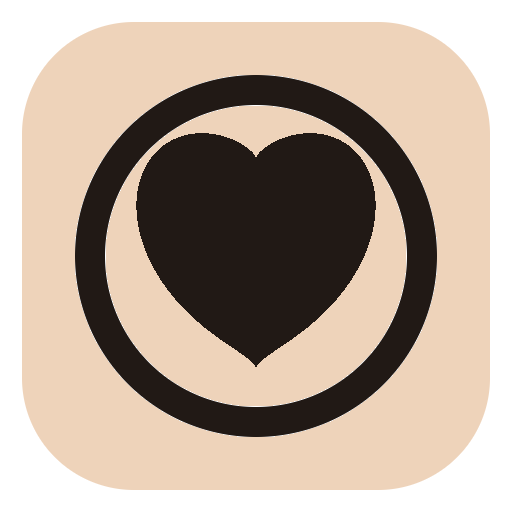
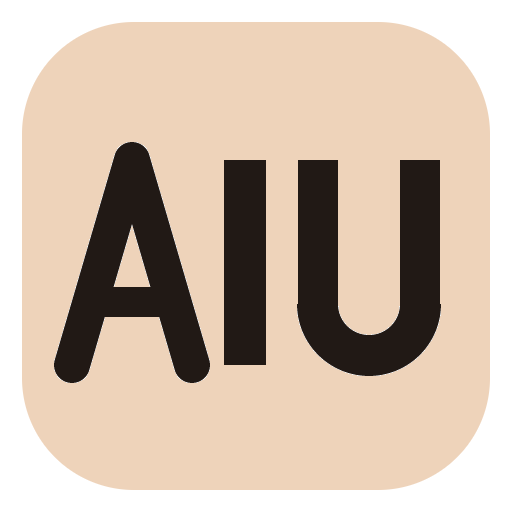
Replace app mark with AIU wordmark

Changed region(s): [[0.0938, 0.125, 0.875, 0.875], [0.7812, 0.4062, 0.8125, 0.5938]]

diff --git a/scripts/generate-icon.js b/scripts/generate-icon.js
@@ -25,22 +25,39 @@ function roundedSquareCoverage(x, y) {
   return Math.max(0, Math.min(1, radius + .5 - distance));
 }
 
+function distanceToSegment(px, py, ax, ay, bx, by) {
+  const abx = bx - ax;
+  const aby = by - ay;
+  const t = Math.max(0, Math.min(1, ((px - ax) * abx + (py - ay) * aby) / (abx * abx + aby * aby)));
+  return Math.hypot(px - (ax + abx * t), py - (ay + aby * t));
+}
+
+function insideLetters(x, y) {
+  const a = (
+    distanceToSegment(x, y, 72, 365, 132, 160) <= 18
+    || distanceToSegment(x, y, 132, 160, 192, 365) <= 18
+    || (x >= 96 && x <= 168 && y >= 287 && y <= 317)
+  ) && y >= 142 && y <= 383;
+  const i = x >= 224 && x <= 266 && y >= 160 && y <= 365;
+  const uBars = ((x >= 298 && x <= 338) || (x >= 400 && x <= 440)) && y >= 160 && y <= 305;
+  const radius = Math.hypot(x - 369, y - 304);
+  const uCurve = y >= 304 && radius >= 31 && radius <= 72;
+  return a || i || uBars || uCurve;
+}
+
 for (let y = 0; y < size; y += 1) {
   for (let x = 0; x < size; x += 1) {
     const square = roundedSquareCoverage(x + .5, y + .5);
     if (!square) continue;
     setPixel(x, y, almond, square);
 
-    const dx = x + .5 - size / 2;
-    const dy = y + .5 - size / 2;
-    const distance = Math.hypot(dx, dy);
-    const ringCoverage = Math.max(0, Math.min(1, 15.5 - Math.abs(distance - 166)));
-
-    const heartX = dx / 105;
-    const heartY = -((y + .5 - 263) / 105);
-    const heartBase = heartX * heartX + heartY * heartY - 1;
-    const insideHeart = heartBase ** 3 - heartX * heartX * heartY ** 3 <= 0;
-    if (ringCoverage > 0 || insideHeart) setPixel(x, y, ink, Math.max(ringCoverage, insideHeart ? 1 : 0));
+    let letterSamples = 0;
+    for (const offsetY of [.125, .375, .625, .875]) {
+      for (const offsetX of [.125, .375, .625, .875]) {
+        if (insideLetters(x + offsetX, y + offsetY)) letterSamples += 1;
+      }
+    }
+    if (letterSamples) setPixel(x, y, ink, letterSamples / 16);
   }
 }
 
